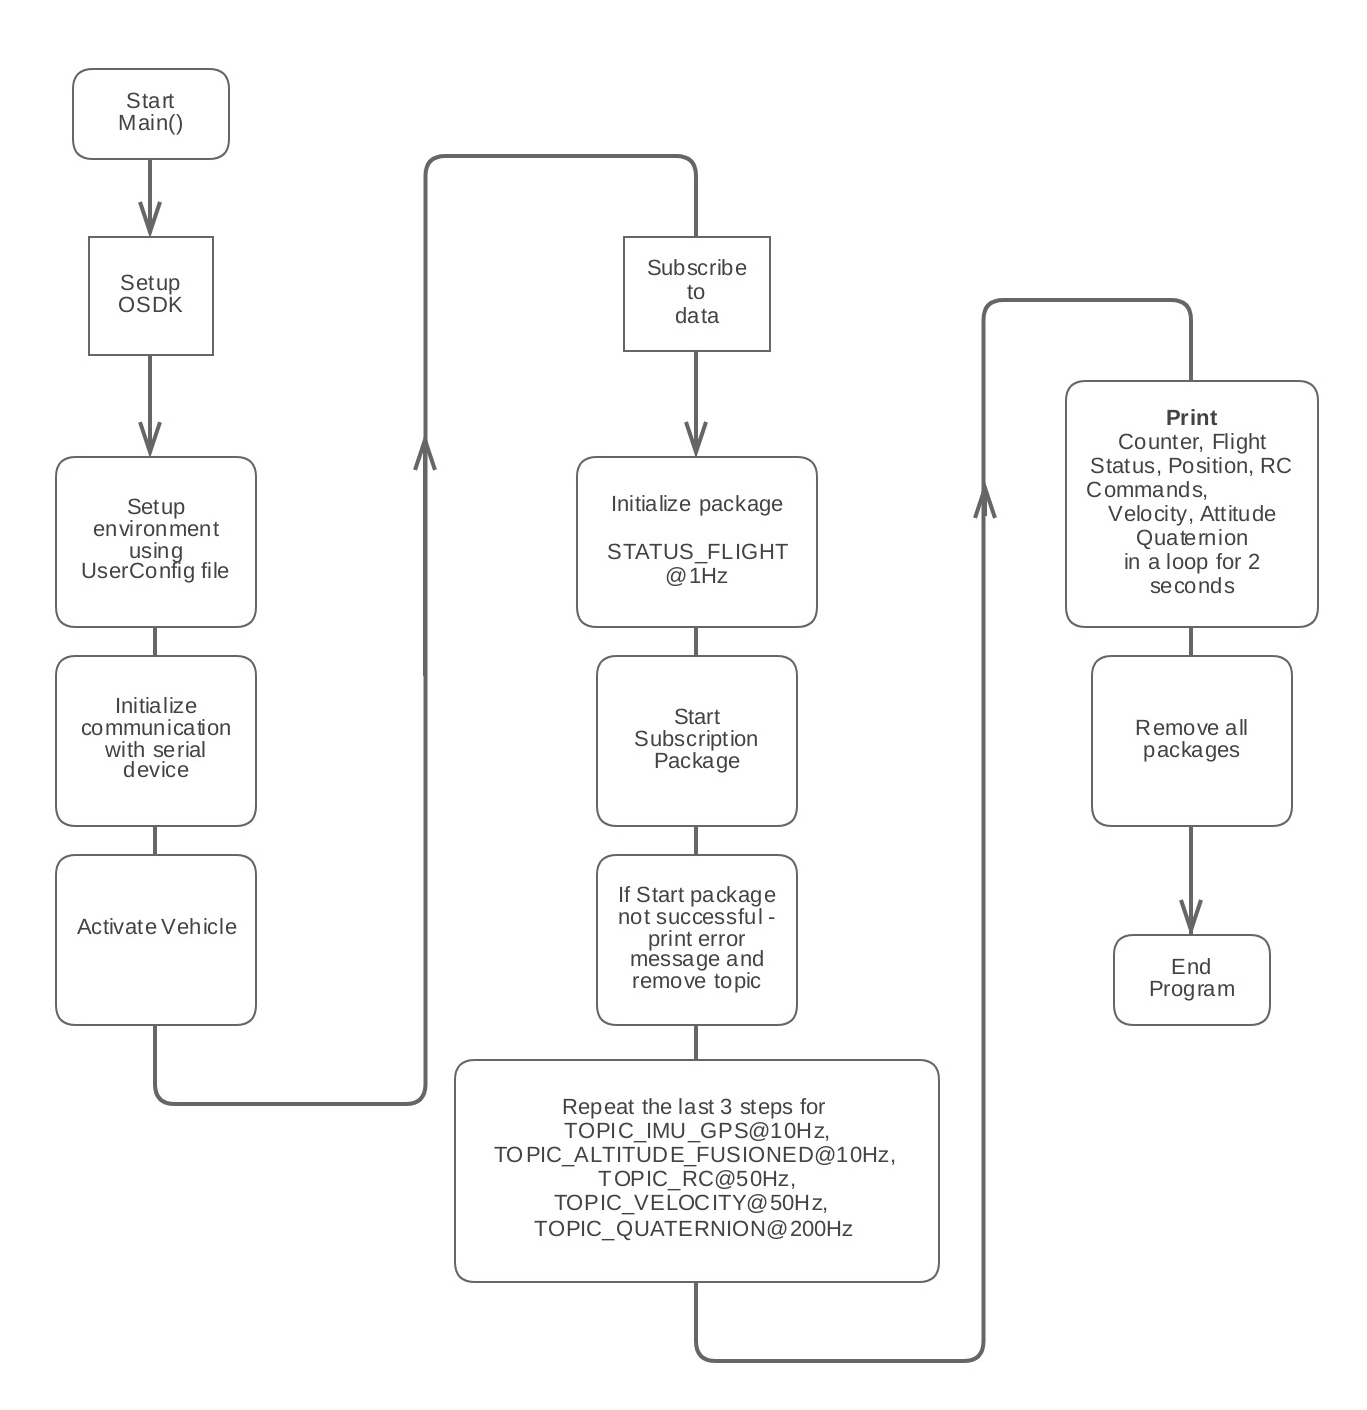
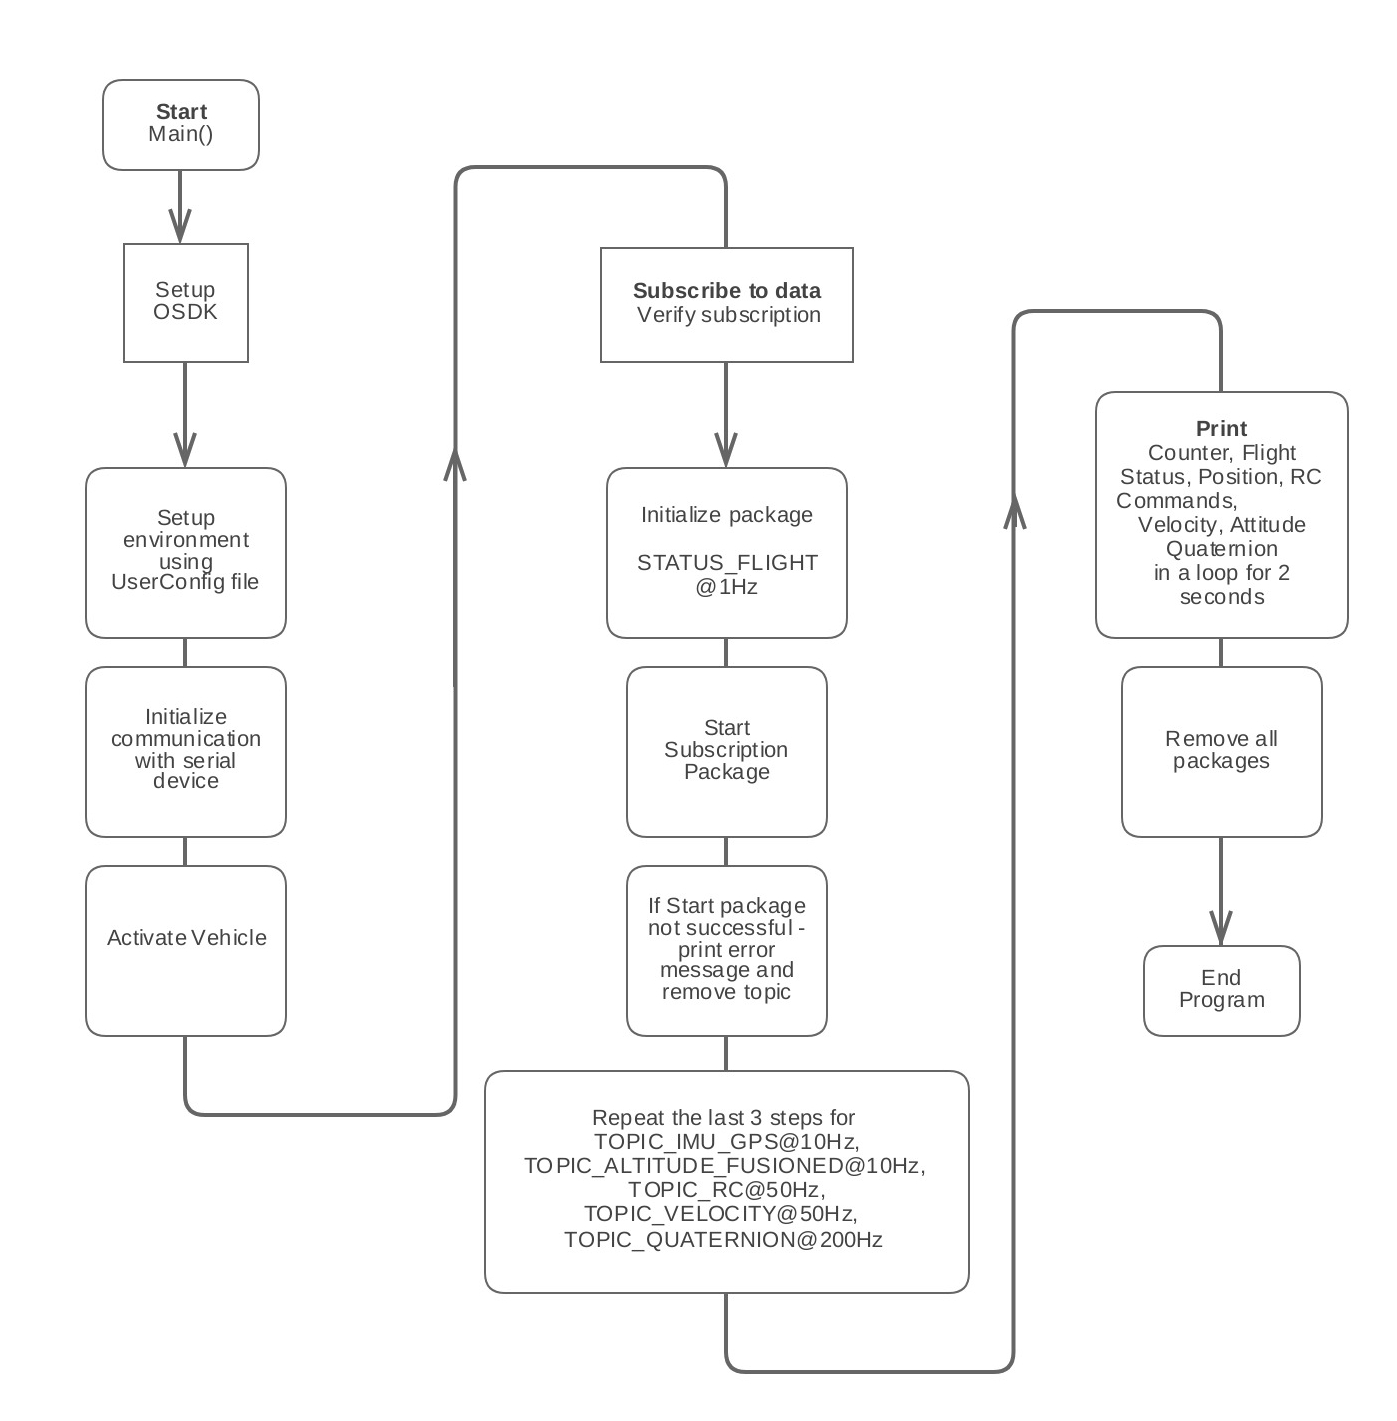
New floawchart and changes to md file

diff --git a/source/sample-doc/flight-control.md b/source/sample-doc/flight-control.md
@@ -8,12 +8,12 @@ keywords: [sample, samples, Flight control, flightcontrol, position, positioncon
 
 The flight control sample demonstrates sending control commands to the aircraft using the Position control command. The sample allows you to run two operations: 
 
-a. Take off and Land aircraft
-b. Take off, flight motion using position control and land aircraft. 
+* Take off and Land aircraft
+* Take off, flight motion using Position Control and Land aircraft. 
 
 ## Goals 
 
-The sample demonstrates a closed loop controller with position commands sent to the aircraft. It subscribes to the following topics: 
+The sample demonstrates a closed loop controller with position commands sent to the aircraft using the positionAndYawCtrl API. It subscribes to the following topics: 
  
 1. TOPIC_STATUS_FLIGHT at 10Hz
 2. TOPIC_STATUS_DISPLAYMODE at 10Hz
@@ -24,7 +24,7 @@ The flight control sample is available on Linux, ROS and STM32.
 
 ## Code work flow 
 
-[![Telemetry code workflow](../images/samples/telemetry_flowchart.jpg)](../images/samples/telemetry_flowchart.jpg)
+[![Telemetry code workflow](../images/samples/flightcontrol_flowchart.jpg)](../images/samples/flightcontrol_flowchart.jpg)
 
 ## Output 
 
